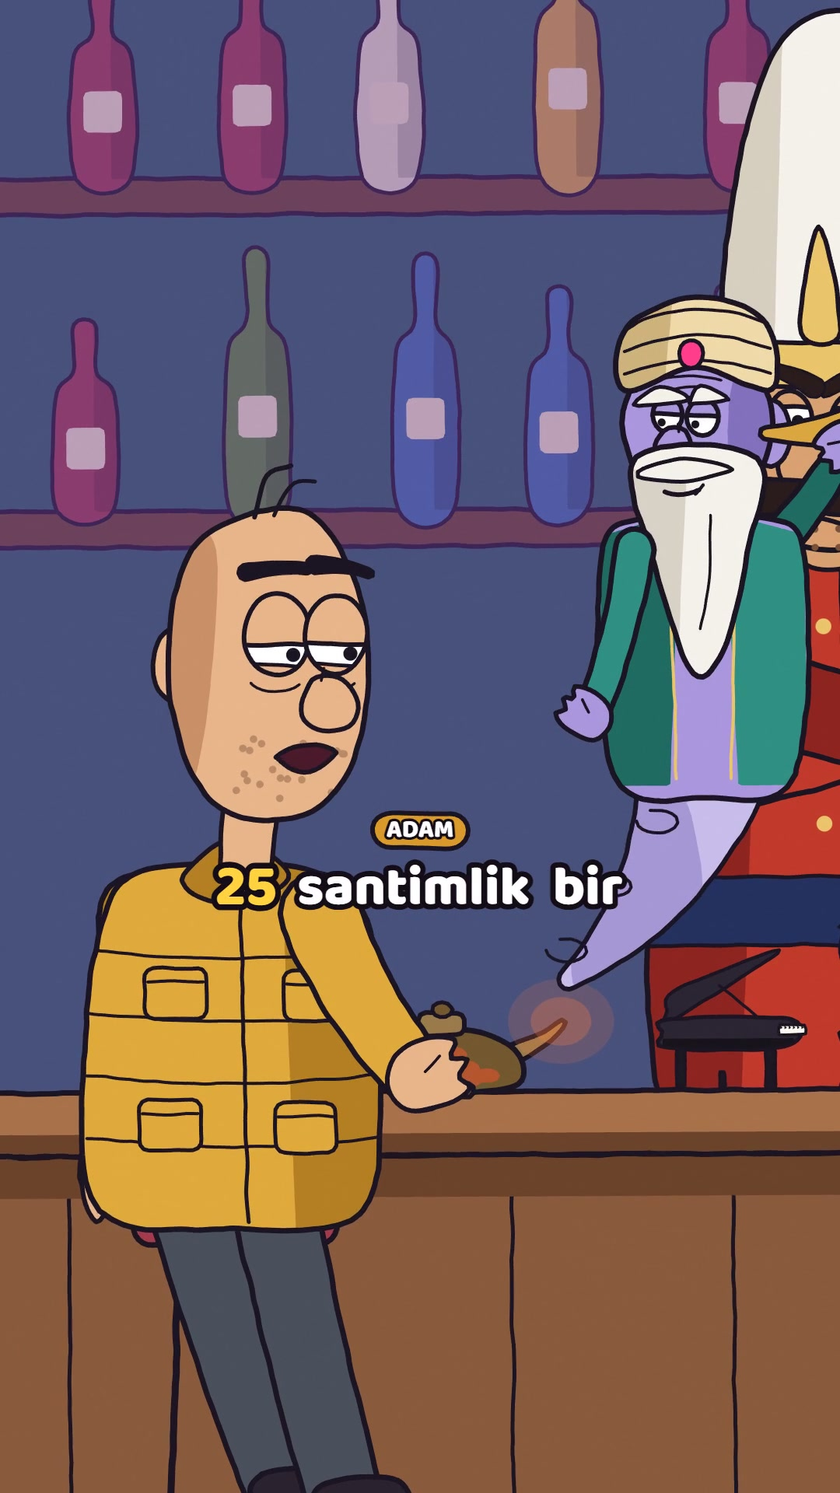
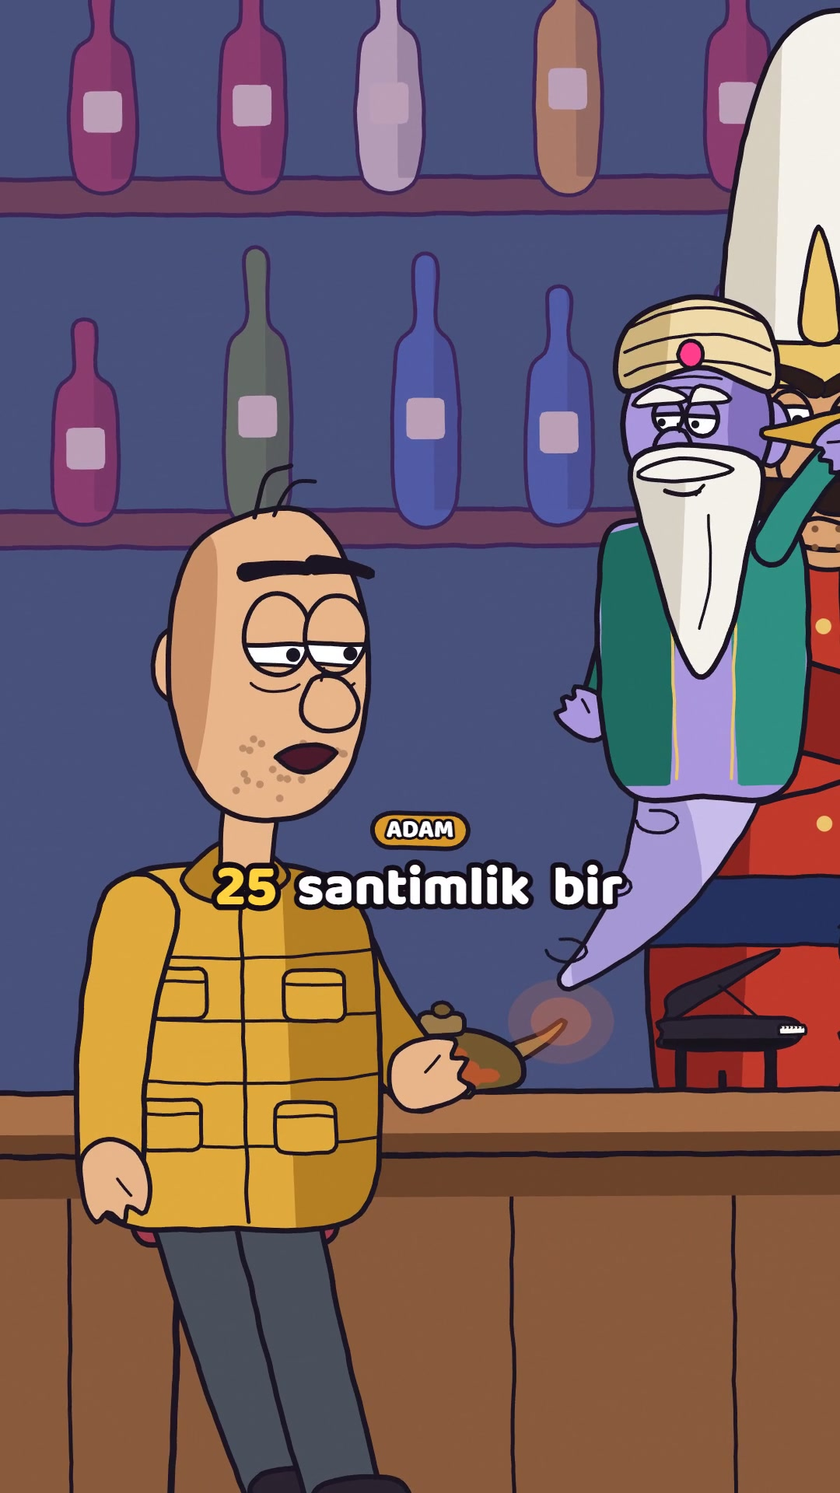
Cast: show both arms (near arm in front, far arm behind)
Characters face +x in a three-quarter view. The -x arm (handL) is the near
arm: it is now drawn after the body in the lit colour. The +x arm (handR) is
the far arm: drawn before the body in the shade colour. Both elbows bend back.
Before, the near arm was hidden behind the body and the far arm was in front.
Patched each film's engine copy and rebuilt minik_piyanist and papagan.

diff --git a/engine/cast/scifi-toon/riza.js b/engine/cast/scifi-toon/riza.js
@@ -15,18 +15,28 @@ export function riza(P) {
   push(); translate(x + jx, y + jy); scale(s * face * (1 + sq * .5), s * (1 - sq));
   const hipY = -200, shY = -370;
   leg([-28, hipY], [-34, -14], 46, C.pants, C.shoe, 1); leg([26, hipY], [34, -12], 46, C.pants, C.shoe, 1);
-  // cane in the front hand: its foot on the floor, lifted by bang
   const bang = P.bang || 0;
-  const hR = P.handR || [96, hipY + 30 - bang * 60];
-  push(); stroke([[hR[0] + 4, hR[1]], [hR[0] + 18, -2 - bang * 60]], 10, { line: C.cane }); stroke(arc(hR[0] - 10, hR[1] - 4, 16, 14, Math.PI, Math.PI * 2, 10), 10, { line: C.cane }); pop();
-  push(); translate(0, hipY); rotate(.12 + lean * .15); translate(0, -hipY);   // a slight stoop
+  const hR = P.handR || [100, hipY + 20 - bang * 60];
+  const stoop = .12 + lean * .15;
+  push(); translate(0, hipY); rotate(stoop); translate(0, -hipY);   // a slight stoop
   const hL = P.handL || [-80, hipY + 10];
-  arm([-62, shY + 26], hL, -12, 40, C.cardiganS); hand(hL[0], hL[1], 1.4, 20, C.skin);
+  // far arm (+x side, behind the body): the character faces +x in three-quarter view
+  arm([60, shY + 26], hR, 14, 40, C.cardiganS);
   shape(spline([[-74, hipY + 20], [-84, hipY - 70], [-70, shY + 14], [0, shY - 8], [70, shY + 14], [82, hipY - 70], [72, hipY + 20], [0, hipY + 28]]), { fill: C.cardigan, shade: () => {
     fillOnly([[-18, shY - 8], [18, shY - 8], [6, hipY - 40], [-6, hipY - 40]], C.shirt, { boil: .4 });
     shade([[36, shY - 20], [100, shY - 20], [100, hipY + 30], [46, hipY + 30]], C.cardiganS);
   } });
   for (let k = 0; k < 4; k++) dot(10, shY + 40 + k * 34, 6, '#e9c46a');
+  // the cane, in front of him: a thick wooden shaft to the floor, a crook handle under the front hand (lifted by bang)
+  const fl = [hR[0] + 18, -4 - bang * 60], c = Math.cos(-stoop), sn = Math.sin(-stoop);
+  const flG = [c * fl[0] - sn * (fl[1] - hipY), sn * fl[0] + c * (fl[1] - hipY) + hipY];   // the floor point in the stooped frame
+  shape(noodle([hR[0] + 2, hR[1] + 6], flG, 0, 16, 13), { fill: C.cane, lw: 6, shade: () => shade(rect(hR[0] + 6, hR[1], 20, 400), '#5a331c') });
+  shape(noodle([hR[0] - 4, hR[1] + 4], [hR[0] + 10, hR[1] - 30], 8, 16, 16), { fill: C.cane, lw: 6 });
+  shape(noodle([hR[0] + 10, hR[1] - 30], [hR[0] + 38, hR[1] - 10], -14, 16, 13), { fill: C.cane, lw: 6 });
+  shape(rr(flG[0] - 9, flG[1] - 14, 18, 16, 5), { fill: '#2b2230', lw: 5 });   // rubber foot
+  hand(hR[0], hR[1], -.2, 21, C.skin, { fist: true });   // the far hand grips the cane in front of him
+  // near arm (-x side, in front of the body)
+  arm([-62, shY + 26], hL, 12, 40, C.cardigan); hand(hL[0], hL[1], 1.4, 20, C.skin);
   // head
   push(); translate(10, shY - 6); rotate(P.headTilt || 0);
   const hc = [6, -86];
@@ -36,13 +46,13 @@ export function riza(P) {
   for (let k = 0; k < 3; k++) stroke(arc(hc[0] + 8, hc[1] - 34 + k * 8, 26 - k * 3, 5, Math.PI * 1.15, Math.PI * 1.85, 8), 3.5);   // forehead lines
   // flat cap
   shape(spline([[hc[0] - 66, hc[1] - 34], [hc[0] - 50, hc[1] - 82], [hc[0] + 20, hc[1] - 92], [hc[0] + 70, hc[1] - 60], [hc[0] + 96, hc[1] - 36], [hc[0] + 40, hc[1] - 30]]), { fill: C.cap, shade: () => shade(rect(hc[0] + 30, hc[1] - 100, 80, 70), C.capS) });
-  // thick round glasses (eyes behind them)
-  const lk = P.look || [0, 0], lid = P.lid ?? .35;
-  for (const ex of [hc[0] - 2, hc[0] + 36]) {
-    shape(ell(ex, hc[1] - 4, 26, 26, 24), { fill: '#eef6fa', lw: 6 });
-    if (P.blink) stroke([[ex - 14, hc[1] - 4], [ex + 14, hc[1] - 4]], 6); else eye(ex, hc[1] - 4, 15, 17, { lid, look: lk, skin: C.skin, pupil: 5 });
-  }
-  stroke([[hc[0] + 24, hc[1] - 6], [hc[0] + 10, hc[1] - 6]], 5);
+  // round glasses: the eyes, then a light blue lens tint, then thin dark frames, a bridge over the nose, an arm to the ear
+  const lk = P.look || [0, 0], lid = P.lid ?? .35, LX = [hc[0] - 4, hc[0] + 36], LY = hc[1] - 6, LR = 19;
+  for (const ex of LX) { if (P.blink) stroke([[ex - 11, LY], [ex + 11, LY]], 6); else eye(ex, LY, 13, 15, { lid, look: lk, skin: C.skin, pupil: 4.5 }); }
+  for (const ex of LX) { fillOnly(ell(ex, LY, LR, LR, 24), 'rgba(190,226,242,.38)', { boil: .2 }); fillOnly(ell(ex - 7, LY - 8, 4, 7, 10), 'rgba(255,255,255,.75)', { boil: 0 }); }
+  for (const ex of LX) shape(ell(ex, LY, LR, LR, 26), { closed: true, lw: 5, line: '#3a2a20' });
+  stroke(quad([LX[0] + LR, LY - 4], [(LX[0] + LX[1]) / 2, LY - 12], [LX[1] - LR, LY - 4], 6), 5, { line: '#3a2a20' });
+  stroke([[LX[0] - LR, LY - 2], [hc[0] - 56, hc[1] + 2]], 4, { line: '#3a2a20' });
   const b = P.brow ?? 0;
   brow(hc[0] - 2, hc[1] - 40 - b * 8, 34, b * .5, { lw: 9, col: C.hair }); brow(hc[0] + 38, hc[1] - 42 - b * 8, 32, -b * .5, { lw: 9, col: C.hair });
   nose(hc[0] + 22, hc[1] + 26, 1.0, { fill: C.skin });

diff --git a/films/telefon/engine/cast/scifi-toon/riza.js b/films/telefon/engine/cast/scifi-toon/riza.js
@@ -15,18 +15,28 @@ export function riza(P) {
   push(); translate(x + jx, y + jy); scale(s * face * (1 + sq * .5), s * (1 - sq));
   const hipY = -200, shY = -370;
   leg([-28, hipY], [-34, -14], 46, C.pants, C.shoe, 1); leg([26, hipY], [34, -12], 46, C.pants, C.shoe, 1);
-  // cane in the front hand: its foot on the floor, lifted by bang
   const bang = P.bang || 0;
-  const hR = P.handR || [96, hipY + 30 - bang * 60];
-  push(); stroke([[hR[0] + 4, hR[1]], [hR[0] + 18, -2 - bang * 60]], 10, { line: C.cane }); stroke(arc(hR[0] - 10, hR[1] - 4, 16, 14, Math.PI, Math.PI * 2, 10), 10, { line: C.cane }); pop();
-  push(); translate(0, hipY); rotate(.12 + lean * .15); translate(0, -hipY);   // a slight stoop
+  const hR = P.handR || [100, hipY + 20 - bang * 60];
+  const stoop = .12 + lean * .15;
+  push(); translate(0, hipY); rotate(stoop); translate(0, -hipY);   // a slight stoop
   const hL = P.handL || [-80, hipY + 10];
-  arm([-62, shY + 26], hL, -12, 40, C.cardiganS); hand(hL[0], hL[1], 1.4, 20, C.skin);
+  // far arm (+x side, behind the body): the character faces +x in three-quarter view
+  arm([60, shY + 26], hR, 14, 40, C.cardiganS);
   shape(spline([[-74, hipY + 20], [-84, hipY - 70], [-70, shY + 14], [0, shY - 8], [70, shY + 14], [82, hipY - 70], [72, hipY + 20], [0, hipY + 28]]), { fill: C.cardigan, shade: () => {
     fillOnly([[-18, shY - 8], [18, shY - 8], [6, hipY - 40], [-6, hipY - 40]], C.shirt, { boil: .4 });
     shade([[36, shY - 20], [100, shY - 20], [100, hipY + 30], [46, hipY + 30]], C.cardiganS);
   } });
   for (let k = 0; k < 4; k++) dot(10, shY + 40 + k * 34, 6, '#e9c46a');
+  // the cane, in front of him: a thick wooden shaft to the floor, a crook handle under the front hand (lifted by bang)
+  const fl = [hR[0] + 18, -4 - bang * 60], c = Math.cos(-stoop), sn = Math.sin(-stoop);
+  const flG = [c * fl[0] - sn * (fl[1] - hipY), sn * fl[0] + c * (fl[1] - hipY) + hipY];   // the floor point in the stooped frame
+  shape(noodle([hR[0] + 2, hR[1] + 6], flG, 0, 16, 13), { fill: C.cane, lw: 6, shade: () => shade(rect(hR[0] + 6, hR[1], 20, 400), '#5a331c') });
+  shape(noodle([hR[0] - 4, hR[1] + 4], [hR[0] + 10, hR[1] - 30], 8, 16, 16), { fill: C.cane, lw: 6 });
+  shape(noodle([hR[0] + 10, hR[1] - 30], [hR[0] + 38, hR[1] - 10], -14, 16, 13), { fill: C.cane, lw: 6 });
+  shape(rr(flG[0] - 9, flG[1] - 14, 18, 16, 5), { fill: '#2b2230', lw: 5 });   // rubber foot
+  hand(hR[0], hR[1], -.2, 21, C.skin, { fist: true });   // the far hand grips the cane in front of him
+  // near arm (-x side, in front of the body)
+  arm([-62, shY + 26], hL, 12, 40, C.cardigan); hand(hL[0], hL[1], 1.4, 20, C.skin);
   // head
   push(); translate(10, shY - 6); rotate(P.headTilt || 0);
   const hc = [6, -86];
@@ -36,13 +46,13 @@ export function riza(P) {
   for (let k = 0; k < 3; k++) stroke(arc(hc[0] + 8, hc[1] - 34 + k * 8, 26 - k * 3, 5, Math.PI * 1.15, Math.PI * 1.85, 8), 3.5);   // forehead lines
   // flat cap
   shape(spline([[hc[0] - 66, hc[1] - 34], [hc[0] - 50, hc[1] - 82], [hc[0] + 20, hc[1] - 92], [hc[0] + 70, hc[1] - 60], [hc[0] + 96, hc[1] - 36], [hc[0] + 40, hc[1] - 30]]), { fill: C.cap, shade: () => shade(rect(hc[0] + 30, hc[1] - 100, 80, 70), C.capS) });
-  // thick round glasses (eyes behind them)
-  const lk = P.look || [0, 0], lid = P.lid ?? .35;
-  for (const ex of [hc[0] - 2, hc[0] + 36]) {
-    shape(ell(ex, hc[1] - 4, 26, 26, 24), { fill: '#eef6fa', lw: 6 });
-    if (P.blink) stroke([[ex - 14, hc[1] - 4], [ex + 14, hc[1] - 4]], 6); else eye(ex, hc[1] - 4, 15, 17, { lid, look: lk, skin: C.skin, pupil: 5 });
-  }
-  stroke([[hc[0] + 24, hc[1] - 6], [hc[0] + 10, hc[1] - 6]], 5);
+  // round glasses: the eyes, then a light blue lens tint, then thin dark frames, a bridge over the nose, an arm to the ear
+  const lk = P.look || [0, 0], lid = P.lid ?? .35, LX = [hc[0] - 4, hc[0] + 36], LY = hc[1] - 6, LR = 19;
+  for (const ex of LX) { if (P.blink) stroke([[ex - 11, LY], [ex + 11, LY]], 6); else eye(ex, LY, 13, 15, { lid, look: lk, skin: C.skin, pupil: 4.5 }); }
+  for (const ex of LX) { fillOnly(ell(ex, LY, LR, LR, 24), 'rgba(190,226,242,.38)', { boil: .2 }); fillOnly(ell(ex - 7, LY - 8, 4, 7, 10), 'rgba(255,255,255,.75)', { boil: 0 }); }
+  for (const ex of LX) shape(ell(ex, LY, LR, LR, 26), { closed: true, lw: 5, line: '#3a2a20' });
+  stroke(quad([LX[0] + LR, LY - 4], [(LX[0] + LX[1]) / 2, LY - 12], [LX[1] - LR, LY - 4], 6), 5, { line: '#3a2a20' });
+  stroke([[LX[0] - LR, LY - 2], [hc[0] - 56, hc[1] + 2]], 4, { line: '#3a2a20' });
   const b = P.brow ?? 0;
   brow(hc[0] - 2, hc[1] - 40 - b * 8, 34, b * .5, { lw: 9, col: C.hair }); brow(hc[0] + 38, hc[1] - 42 - b * 8, 32, -b * .5, { lw: 9, col: C.hair });
   nose(hc[0] + 22, hc[1] + 26, 1.0, { fill: C.skin });

diff --git a/engine/cast/scifi-toon/cin.js b/engine/cast/scifi-toon/cin.js
@@ -24,7 +24,9 @@ export function cin(P) {
   // back arm: holds the ear trumpet when raised
   const tr = P.trumpet || 0;
   const hL = [lerp(-110, -128, tr), lerp(-60, shY - 72, tr)];
-  arm([-60, shY + 20], hL, -10, 34, C.vestS);
+  // far arm (+x side, behind the body): the character faces +x in three-quarter view
+  const sn = P.snap || 0, hR = [lerp(100, 178, sn), lerp(-60, shY - 30, sn)];
+  arm([60, shY + 20], hR, 10, 34, C.vestS); hand(hR[0], hR[1], -.6 - sn * .8, 20, C.skin, { fist: sn > .6 });
   // body + vest
   shape(spline([[-80, -10], [-90, shY + 30], [-50, shY - 6], [50, shY - 6], [90, shY + 30], [80, -10], [0, 10]]), { fill: C.skin, shade: () => {
     fillOnly([[-90, shY + 10], [-20, shY - 10], [-30, 0], [-90, 0]], C.vest, { boil: .4 });
@@ -66,11 +68,9 @@ export function cin(P) {
     shape(ell(b[0] - 4, b[1], 12, 30, 20), { fill: '#3a2a14', lw: 6 });
     pop();
   }
-  hand(hL[0], hL[1], .6, 20, C.skin);
+  // near arm (-x side, in front of the body)
+  arm([-60, shY + 20], hL, 10, 34, C.vest); hand(hL[0], hL[1], .6, 20, C.skin);
   // front arm: snap
-  const sn = P.snap || 0;
-  const hR = [lerp(100, 178, sn), lerp(-60, shY - 30, sn)];
-  arm([60, shY + 20], hR, 10, 34, C.vest); hand(hR[0], hR[1], -.6 - sn * .8, 20, C.skin, { fist: sn > .6 });
   if (sn > .6) for (let k = 0; k < 5; k++) { const a = k / 5 * Math.PI * 2; stroke([[hR[0] + 30 + Math.cos(a) * 26, hR[1] - 20 + Math.sin(a) * 26], [hR[0] + 30 + Math.cos(a) * 44, hR[1] - 20 + Math.sin(a) * 44]], 5, { line: '#ffe3b0' }); }
   if (P.cough) for (let k = 0; k < 3; k++) { const ph = (t * 2 + k * .3) % 1; shape(ell(70 + ph * 60, shY - 40 - ph * 30, 10 + ph * 16, 8 + ph * 12, 12), { fill: '#b9ad8e', lw: 4, alpha: 1 - ph }); }
   pop(); pop();

diff --git a/films/minik_piyanist/engine/cast/scifi-toon/cin.js b/films/minik_piyanist/engine/cast/scifi-toon/cin.js
@@ -24,7 +24,9 @@ export function cin(P) {
   // back arm: holds the ear trumpet when raised
   const tr = P.trumpet || 0;
   const hL = [lerp(-110, -128, tr), lerp(-60, shY - 72, tr)];
-  arm([-60, shY + 20], hL, -10, 34, C.vestS);
+  // far arm (+x side, behind the body): the character faces +x in three-quarter view
+  const sn = P.snap || 0, hR = [lerp(100, 178, sn), lerp(-60, shY - 30, sn)];
+  arm([60, shY + 20], hR, 10, 34, C.vestS); hand(hR[0], hR[1], -.6 - sn * .8, 20, C.skin, { fist: sn > .6 });
   // body + vest
   shape(spline([[-80, -10], [-90, shY + 30], [-50, shY - 6], [50, shY - 6], [90, shY + 30], [80, -10], [0, 10]]), { fill: C.skin, shade: () => {
     fillOnly([[-90, shY + 10], [-20, shY - 10], [-30, 0], [-90, 0]], C.vest, { boil: .4 });
@@ -66,11 +68,9 @@ export function cin(P) {
     shape(ell(b[0] - 4, b[1], 12, 30, 20), { fill: '#3a2a14', lw: 6 });
     pop();
   }
-  hand(hL[0], hL[1], .6, 20, C.skin);
+  // near arm (-x side, in front of the body)
+  arm([-60, shY + 20], hL, 10, 34, C.vest); hand(hL[0], hL[1], .6, 20, C.skin);
   // front arm: snap
-  const sn = P.snap || 0;
-  const hR = [lerp(100, 178, sn), lerp(-60, shY - 30, sn)];
-  arm([60, shY + 20], hR, 10, 34, C.vest); hand(hR[0], hR[1], -.6 - sn * .8, 20, C.skin, { fist: sn > .6 });
   if (sn > .6) for (let k = 0; k < 5; k++) { const a = k / 5 * Math.PI * 2; stroke([[hR[0] + 30 + Math.cos(a) * 26, hR[1] - 20 + Math.sin(a) * 26], [hR[0] + 30 + Math.cos(a) * 44, hR[1] - 20 + Math.sin(a) * 44]], 5, { line: '#ffe3b0' }); }
   if (P.cough) for (let k = 0; k < 3; k++) { const ph = (t * 2 + k * .3) % 1; shape(ell(70 + ph * 60, shY - 40 - ph * 30, 10 + ph * 16, 8 + ph * 12, 12), { fill: '#b9ad8e', lw: 4, alpha: 1 - ph }); }
   pop(); pop();

diff --git a/films/papagan/engine/cast/scifi-toon/cin.js b/films/papagan/engine/cast/scifi-toon/cin.js
@@ -24,7 +24,9 @@ export function cin(P) {
   // back arm: holds the ear trumpet when raised
   const tr = P.trumpet || 0;
   const hL = [lerp(-110, -128, tr), lerp(-60, shY - 72, tr)];
-  arm([-60, shY + 20], hL, -10, 34, C.vestS);
+  // far arm (+x side, behind the body): the character faces +x in three-quarter view
+  const sn = P.snap || 0, hR = [lerp(100, 178, sn), lerp(-60, shY - 30, sn)];
+  arm([60, shY + 20], hR, 10, 34, C.vestS); hand(hR[0], hR[1], -.6 - sn * .8, 20, C.skin, { fist: sn > .6 });
   // body + vest
   shape(spline([[-80, -10], [-90, shY + 30], [-50, shY - 6], [50, shY - 6], [90, shY + 30], [80, -10], [0, 10]]), { fill: C.skin, shade: () => {
     fillOnly([[-90, shY + 10], [-20, shY - 10], [-30, 0], [-90, 0]], C.vest, { boil: .4 });
@@ -66,11 +68,9 @@ export function cin(P) {
     shape(ell(b[0] - 4, b[1], 12, 30, 20), { fill: '#3a2a14', lw: 6 });
     pop();
   }
-  hand(hL[0], hL[1], .6, 20, C.skin);
+  // near arm (-x side, in front of the body)
+  arm([-60, shY + 20], hL, 10, 34, C.vest); hand(hL[0], hL[1], .6, 20, C.skin);
   // front arm: snap
-  const sn = P.snap || 0;
-  const hR = [lerp(100, 178, sn), lerp(-60, shY - 30, sn)];
-  arm([60, shY + 20], hR, 10, 34, C.vest); hand(hR[0], hR[1], -.6 - sn * .8, 20, C.skin, { fist: sn > .6 });
   if (sn > .6) for (let k = 0; k < 5; k++) { const a = k / 5 * Math.PI * 2; stroke([[hR[0] + 30 + Math.cos(a) * 26, hR[1] - 20 + Math.sin(a) * 26], [hR[0] + 30 + Math.cos(a) * 44, hR[1] - 20 + Math.sin(a) * 44]], 5, { line: '#ffe3b0' }); }
   if (P.cough) for (let k = 0; k < 3; k++) { const ph = (t * 2 + k * .3) % 1; shape(ell(70 + ph * 60, shY - 40 - ph * 30, 10 + ph * 16, 8 + ph * 12, 12), { fill: '#b9ad8e', lw: 4, alpha: 1 - ph }); }
   pop(); pop();

diff --git a/films/telefon/engine/cast/scifi-toon/cin.js b/films/telefon/engine/cast/scifi-toon/cin.js
@@ -24,7 +24,9 @@ export function cin(P) {
   // back arm: holds the ear trumpet when raised
   const tr = P.trumpet || 0;
   const hL = [lerp(-110, -128, tr), lerp(-60, shY - 72, tr)];
-  arm([-60, shY + 20], hL, -10, 34, C.vestS);
+  // far arm (+x side, behind the body): the character faces +x in three-quarter view
+  const sn = P.snap || 0, hR = [lerp(100, 178, sn), lerp(-60, shY - 30, sn)];
+  arm([60, shY + 20], hR, 10, 34, C.vestS); hand(hR[0], hR[1], -.6 - sn * .8, 20, C.skin, { fist: sn > .6 });
   // body + vest
   shape(spline([[-80, -10], [-90, shY + 30], [-50, shY - 6], [50, shY - 6], [90, shY + 30], [80, -10], [0, 10]]), { fill: C.skin, shade: () => {
     fillOnly([[-90, shY + 10], [-20, shY - 10], [-30, 0], [-90, 0]], C.vest, { boil: .4 });
@@ -66,11 +68,9 @@ export function cin(P) {
     shape(ell(b[0] - 4, b[1], 12, 30, 20), { fill: '#3a2a14', lw: 6 });
     pop();
   }
-  hand(hL[0], hL[1], .6, 20, C.skin);
+  // near arm (-x side, in front of the body)
+  arm([-60, shY + 20], hL, 10, 34, C.vest); hand(hL[0], hL[1], .6, 20, C.skin);
   // front arm: snap
-  const sn = P.snap || 0;
-  const hR = [lerp(100, 178, sn), lerp(-60, shY - 30, sn)];
-  arm([60, shY + 20], hR, 10, 34, C.vest); hand(hR[0], hR[1], -.6 - sn * .8, 20, C.skin, { fist: sn > .6 });
   if (sn > .6) for (let k = 0; k < 5; k++) { const a = k / 5 * Math.PI * 2; stroke([[hR[0] + 30 + Math.cos(a) * 26, hR[1] - 20 + Math.sin(a) * 26], [hR[0] + 30 + Math.cos(a) * 44, hR[1] - 20 + Math.sin(a) * 44]], 5, { line: '#ffe3b0' }); }
   if (P.cough) for (let k = 0; k < 3; k++) { const ph = (t * 2 + k * .3) % 1; shape(ell(70 + ph * 60, shY - 40 - ph * 30, 10 + ph * 16, 8 + ph * 12, 12), { fill: '#b9ad8e', lw: 4, alpha: 1 - ph }); }
   pop(); pop();

diff --git a/engine/cast/scifi-toon/piyanist.js b/engine/cast/scifi-toon/piyanist.js
@@ -18,7 +18,8 @@ export function piyanist(P) {
   shape(spline([[-40, hipY - 10], [-62, hipY + 60], [-36, hipY + 50], [-20, hipY + 4]]), { fill: C.coat, lw: 6 });
   const k = play ? Math.floor(t * 12) % 2 : 0;
   const hR = play ? [74, hipY - 18 - k * 8] : [48, hipY + 4], hL = play ? [56, hipY - 26 + k * 8] : [-48, hipY + 4];
-  arm([-30, shY + 16], hL, -8, 24, C.coatS); hand(hL[0], hL[1], .2, 12, C.skin);
+  // far arm (+x side, behind the body): the character faces +x in three-quarter view
+  arm([30, shY + 16], hR, 8, 24, C.coatS); hand(hR[0], hR[1], .2, 12, C.skin);
   shape(spline([[-44, hipY + 2], [-50, shY + 20], [-30, shY - 6], [30, shY - 6], [50, shY + 20], [44, hipY + 2], [0, hipY + 8]]), { fill: C.coat, shade: () =>
     fillOnly([[-14, shY - 8], [14, shY - 8], [6, hipY - 10], [-6, hipY - 10]], C.shirt, { boil: .4 }) });
   shape(spline([[0, shY - 2], [-16, shY - 12], [-16, shY + 6]]), { fill: C.coatS, lw: 5 }); shape(spline([[0, shY - 2], [16, shY - 12], [16, shY + 6]]), { fill: C.coatS, lw: 5 });
@@ -35,7 +36,8 @@ export function piyanist(P) {
   nose(hc[0] + 16, hc[1] + 16, .6, { fill: C.skin });
   mouth(hc[0] + 14, hc[1] + 36, 22, { o: P.o || 0, sm: P.sm ?? .6, teeth: false });
   pop();
-  arm([30, shY + 16], hR, 8, 24, C.coat); hand(hR[0], hR[1], .2, 12, C.skin);
+  // near arm (-x side, in front of the body)
+  arm([-30, shY + 16], hL, 8, 24, C.coat); hand(hL[0], hL[1], .2, 12, C.skin);
   pop(); pop();
   S.lwScale = lw0;
 }

diff --git a/films/minik_piyanist/engine/cast/scifi-toon/piyanist.js b/films/minik_piyanist/engine/cast/scifi-toon/piyanist.js
@@ -18,7 +18,8 @@ export function piyanist(P) {
   shape(spline([[-40, hipY - 10], [-62, hipY + 60], [-36, hipY + 50], [-20, hipY + 4]]), { fill: C.coat, lw: 6 });
   const k = play ? Math.floor(t * 12) % 2 : 0;
   const hR = play ? [74, hipY - 18 - k * 8] : [48, hipY + 4], hL = play ? [56, hipY - 26 + k * 8] : [-48, hipY + 4];
-  arm([-30, shY + 16], hL, -8, 24, C.coatS); hand(hL[0], hL[1], .2, 12, C.skin);
+  // far arm (+x side, behind the body): the character faces +x in three-quarter view
+  arm([30, shY + 16], hR, 8, 24, C.coatS); hand(hR[0], hR[1], .2, 12, C.skin);
   shape(spline([[-44, hipY + 2], [-50, shY + 20], [-30, shY - 6], [30, shY - 6], [50, shY + 20], [44, hipY + 2], [0, hipY + 8]]), { fill: C.coat, shade: () =>
     fillOnly([[-14, shY - 8], [14, shY - 8], [6, hipY - 10], [-6, hipY - 10]], C.shirt, { boil: .4 }) });
   shape(spline([[0, shY - 2], [-16, shY - 12], [-16, shY + 6]]), { fill: C.coatS, lw: 5 }); shape(spline([[0, shY - 2], [16, shY - 12], [16, shY + 6]]), { fill: C.coatS, lw: 5 });
@@ -35,7 +36,8 @@ export function piyanist(P) {
   nose(hc[0] + 16, hc[1] + 16, .6, { fill: C.skin });
   mouth(hc[0] + 14, hc[1] + 36, 22, { o: P.o || 0, sm: P.sm ?? .6, teeth: false });
   pop();
-  arm([30, shY + 16], hR, 8, 24, C.coat); hand(hR[0], hR[1], .2, 12, C.skin);
+  // near arm (-x side, in front of the body)
+  arm([-30, shY + 16], hL, 8, 24, C.coat); hand(hL[0], hL[1], .2, 12, C.skin);
   pop(); pop();
   S.lwScale = lw0;
 }

diff --git a/films/papagan/engine/cast/scifi-toon/piyanist.js b/films/papagan/engine/cast/scifi-toon/piyanist.js
@@ -18,7 +18,8 @@ export function piyanist(P) {
   shape(spline([[-40, hipY - 10], [-62, hipY + 60], [-36, hipY + 50], [-20, hipY + 4]]), { fill: C.coat, lw: 6 });
   const k = play ? Math.floor(t * 12) % 2 : 0;
   const hR = play ? [74, hipY - 18 - k * 8] : [48, hipY + 4], hL = play ? [56, hipY - 26 + k * 8] : [-48, hipY + 4];
-  arm([-30, shY + 16], hL, -8, 24, C.coatS); hand(hL[0], hL[1], .2, 12, C.skin);
+  // far arm (+x side, behind the body): the character faces +x in three-quarter view
+  arm([30, shY + 16], hR, 8, 24, C.coatS); hand(hR[0], hR[1], .2, 12, C.skin);
   shape(spline([[-44, hipY + 2], [-50, shY + 20], [-30, shY - 6], [30, shY - 6], [50, shY + 20], [44, hipY + 2], [0, hipY + 8]]), { fill: C.coat, shade: () =>
     fillOnly([[-14, shY - 8], [14, shY - 8], [6, hipY - 10], [-6, hipY - 10]], C.shirt, { boil: .4 }) });
   shape(spline([[0, shY - 2], [-16, shY - 12], [-16, shY + 6]]), { fill: C.coatS, lw: 5 }); shape(spline([[0, shY - 2], [16, shY - 12], [16, shY + 6]]), { fill: C.coatS, lw: 5 });
@@ -35,7 +36,8 @@ export function piyanist(P) {
   nose(hc[0] + 16, hc[1] + 16, .6, { fill: C.skin });
   mouth(hc[0] + 14, hc[1] + 36, 22, { o: P.o || 0, sm: P.sm ?? .6, teeth: false });
   pop();
-  arm([30, shY + 16], hR, 8, 24, C.coat); hand(hR[0], hR[1], .2, 12, C.skin);
+  // near arm (-x side, in front of the body)
+  arm([-30, shY + 16], hL, 8, 24, C.coat); hand(hL[0], hL[1], .2, 12, C.skin);
   pop(); pop();
   S.lwScale = lw0;
 }

diff --git a/films/telefon/engine/cast/scifi-toon/piyanist.js b/films/telefon/engine/cast/scifi-toon/piyanist.js
@@ -18,7 +18,8 @@ export function piyanist(P) {
   shape(spline([[-40, hipY - 10], [-62, hipY + 60], [-36, hipY + 50], [-20, hipY + 4]]), { fill: C.coat, lw: 6 });
   const k = play ? Math.floor(t * 12) % 2 : 0;
   const hR = play ? [74, hipY - 18 - k * 8] : [48, hipY + 4], hL = play ? [56, hipY - 26 + k * 8] : [-48, hipY + 4];
-  arm([-30, shY + 16], hL, -8, 24, C.coatS); hand(hL[0], hL[1], .2, 12, C.skin);
+  // far arm (+x side, behind the body): the character faces +x in three-quarter view
+  arm([30, shY + 16], hR, 8, 24, C.coatS); hand(hR[0], hR[1], .2, 12, C.skin);
   shape(spline([[-44, hipY + 2], [-50, shY + 20], [-30, shY - 6], [30, shY - 6], [50, shY + 20], [44, hipY + 2], [0, hipY + 8]]), { fill: C.coat, shade: () =>
     fillOnly([[-14, shY - 8], [14, shY - 8], [6, hipY - 10], [-6, hipY - 10]], C.shirt, { boil: .4 }) });
   shape(spline([[0, shY - 2], [-16, shY - 12], [-16, shY + 6]]), { fill: C.coatS, lw: 5 }); shape(spline([[0, shY - 2], [16, shY - 12], [16, shY + 6]]), { fill: C.coatS, lw: 5 });
@@ -35,7 +36,8 @@ export function piyanist(P) {
   nose(hc[0] + 16, hc[1] + 16, .6, { fill: C.skin });
   mouth(hc[0] + 14, hc[1] + 36, 22, { o: P.o || 0, sm: P.sm ?? .6, teeth: false });
   pop();
-  arm([30, shY + 16], hR, 8, 24, C.coat); hand(hR[0], hR[1], .2, 12, C.skin);
+  // near arm (-x side, in front of the body)
+  arm([-30, shY + 16], hL, 8, 24, C.coat); hand(hL[0], hL[1], .2, 12, C.skin);
   pop(); pop();
   S.lwScale = lw0;
 }

diff --git a/engine/cast/scifi-toon/cemil.js b/engine/cast/scifi-toon/cemil.js
@@ -17,8 +17,8 @@ export function cemil(P) {
   push(); translate(0, hipY); rotate(lean * .15); translate(0, -hipY);
   const shB = [-92, shY + 40], shF = [86, shY + 40];
   const hR = P.handR || [112, hipY - 30], hL = P.handL || [-110, hipY - 30];
-  arm(shB, hL, -16, 40, C.shirtS); hand(hL[0], hL[1], 1.5, 22, C.skin);
-  if (P.holdL) P.holdL(hL);
+  // far arm (+x side, behind the body): the character faces +x in three-quarter view
+  arm(shF, hR, 14, 40, C.shirtS); hand(hR[0], hR[1], -.3, 22, C.skin);
   // round body: shirt, then waistcoat over it
   const body = spline([[-104, hipY + 10], [-124, hipY - 90], [-92, shY + 10], [0, shY - 14], [92, shY + 10], [124, hipY - 90], [104, hipY + 10], [0, hipY + 22]]);
   shape(body, { fill: C.vest, shade: () => {
@@ -51,7 +51,9 @@ export function cemil(P) {
   mustache(hc[0] + 10, hc[1] + 42, 62, { col: C.hair, curl: P.curl ?? .25, wob: Math.sin(t * 9) * (P.jit ? 4 : 0) });
   if (P.sweat) for (let k = 0; k < P.sweat; k++) { const ph = (t * .9 + k * .37) % 1; sweat(hc[0] - 60 + k * 52, hc[1] - 40 + ph * 50, .9); }
   pop();
-  arm(shF, hR, 14, 40, C.shirt); hand(hR[0], hR[1], -.3, 22, C.skin);
+  // near arm (-x side, in front of the body)
+  arm(shB, hL, 16, 40, C.shirt); hand(hL[0], hL[1], 1.5, 22, C.skin);
+  if (P.holdL) P.holdL(hL);
   if (P.holdR) P.holdR(hR);
   pop(); pop();
 }

diff --git a/films/minik_piyanist/engine/cast/scifi-toon/cemil.js b/films/minik_piyanist/engine/cast/scifi-toon/cemil.js
@@ -17,8 +17,8 @@ export function cemil(P) {
   push(); translate(0, hipY); rotate(lean * .15); translate(0, -hipY);
   const shB = [-92, shY + 40], shF = [86, shY + 40];
   const hR = P.handR || [112, hipY - 30], hL = P.handL || [-110, hipY - 30];
-  arm(shB, hL, -16, 40, C.shirtS); hand(hL[0], hL[1], 1.5, 22, C.skin);
-  if (P.holdL) P.holdL(hL);
+  // far arm (+x side, behind the body): the character faces +x in three-quarter view
+  arm(shF, hR, 14, 40, C.shirtS); hand(hR[0], hR[1], -.3, 22, C.skin);
   // round body: shirt, then waistcoat over it
   const body = spline([[-104, hipY + 10], [-124, hipY - 90], [-92, shY + 10], [0, shY - 14], [92, shY + 10], [124, hipY - 90], [104, hipY + 10], [0, hipY + 22]]);
   shape(body, { fill: C.vest, shade: () => {
@@ -51,7 +51,9 @@ export function cemil(P) {
   mustache(hc[0] + 10, hc[1] + 42, 62, { col: C.hair, curl: P.curl ?? .25, wob: Math.sin(t * 9) * (P.jit ? 4 : 0) });
   if (P.sweat) for (let k = 0; k < P.sweat; k++) { const ph = (t * .9 + k * .37) % 1; sweat(hc[0] - 60 + k * 52, hc[1] - 40 + ph * 50, .9); }
   pop();
-  arm(shF, hR, 14, 40, C.shirt); hand(hR[0], hR[1], -.3, 22, C.skin);
+  // near arm (-x side, in front of the body)
+  arm(shB, hL, 16, 40, C.shirt); hand(hL[0], hL[1], 1.5, 22, C.skin);
+  if (P.holdL) P.holdL(hL);
   if (P.holdR) P.holdR(hR);
   pop(); pop();
 }
